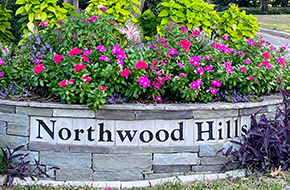
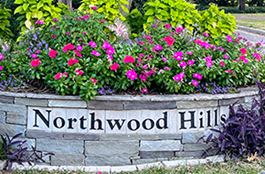
changed 4block locations to images

Changed region(s): [[0.8151, 0.3448, 0.8453, 0.3736], [0.7245, 0.1437, 0.7547, 0.1724], [0.4528, 0.6897, 0.483, 0.7184]]

diff --git a/pages/index.js b/pages/index.js
@@ -93,8 +93,8 @@ function HomePage(props) {
                       'Home Watch' is a visual inspection of a home or property,
                       looking for obvious issues. Home Watch is sometimes used
                       as one word - HomeWatch, however HomeWatch is most often
-                      used when referring to home services that provides In-Home Health Care
-                      for senior citizens.
+                      used when referring to home services that provides In-Home
+                      Health Care for senior citizens.
                     </p>
                     <p>
                       <strong>Dallas Home Watch LLC.</strong> offers
@@ -104,12 +104,11 @@ function HomePage(props) {
                       </Link>{" "}
                       in the Dallas, Texas area. We service several
                       neighborhoods in North Dallas, mid-cities and downtown
-                      Dallas. We provide visual
-                      inspections of both the interior and exterior of homes and
-                      properties, looking for obvious issues that may cause
-                      potential damage. We keep homeowners informed of any
-                      issues and follow the client's instructions regarding a
-                      resolution and cure for them.
+                      Dallas. We provide visual inspections of both the interior
+                      and exterior of homes and properties, looking for obvious
+                      issues that may cause potential damage. We keep homeowners
+                      informed of any issues and follow the client's
+                      instructions regarding a resolution and cure for them.
                     </p>
                     <br />
                     <h3>Not House Sitter or Property Manager</h3>
@@ -358,7 +357,6 @@ function HomePage(props) {
                   We operate our business in accordance with the mission
                   statement laid out by the National Home Watch Association.
                 </p>
-             
                 <Link
                   href="/accreditation"
                   rel="noreferrer nofollow"
@@ -371,7 +369,7 @@ function HomePage(props) {
                     alt="Accredited Member of the National Home Watch Association"
                   />
                 </Link>
-               <br />
+                <br />
                 <br />
                 <p className="mb-10">
                   As a National Home Watch Association member, we are constantly
@@ -383,9 +381,10 @@ function HomePage(props) {
                   protect your property and assets in the best ways possible.
                 </p>
                 <p>
-                  Dallas Home Watch LLC is a local, woman-owned business that provides Home Watch Services.
-                  Tina Lawson, owner of Dallas Home Watch, is a Certified Home
-                  Watch Professional. Certification #05220241
+                  Dallas Home Watch LLC is a local, woman-owned business that
+                  provides Home Watch Services. Tina Lawson, owner of Dallas
+                  Home Watch, is a Certified Home Watch Professional.
+                  Certification #05220241
                 </p>
               </div>
               {/* Column */}
@@ -463,43 +462,72 @@ function HomePage(props) {
         <div className="inner-column">
           <div className="row SAB">
             {/* Highland Park Gated Community Block */}
-            <div className="inner-block col-lg-3 col-md-6 col-sm-12 service-area-highland-park SAB">
+            <div className="inner-block col-lg-3 col-md-6 col-sm-12  SAB">
               <Link
                 href="service-areas#HighlandPark"
                 className="service-area-block"
               >
-                <span className="streetblock">Highland Park</span>
+                <Image
+                  src="/images/highland-park-street-sign.png"
+                  alt="Highland Park street sign"
+                  width={265}
+                  height={0}
+                />
+                <br />
+                <span className="streetblock2">Highland Park</span>
               </Link>
               <br />
             </div>
             <br />
             {/* University Park Community Block */}
-            <div className="inner-block col-lg-3 col-md-6 col-sm-12 service-area-university-park SAB">
+            <div className="inner-block col-lg-3 col-md-6 col-sm-12  SAB">
               <Link
                 href="service-areas#UniversityPark"
                 className="service-area-block"
               >
-                <span className="streetblock">University Park</span>
+                <Image
+                  src="/images/university-park-bridge.png"
+                  alt="University Park street sign"
+                  width={265}
+                  height={0}
+                />
+                <br />
+
+                <span className="streetblock2">University Park</span>
               </Link>
             </div>
 
             {/* Lake Forest Block */}
-            <div className="inner-block col-lg-3 col-md-6 col-sm-12 service-area-lake-forest SAB">
+            <div className="inner-block col-lg-3 col-md-6 col-sm-12 SAB">
               <Link
                 href="service-areas#LakeForest"
                 className="service-area-block"
               >
-                <span className="streetblock">Lake Forest</span>
+                <Image
+                  src="/images/estates-of-lake-forest2.jpg"
+                  alt="Estates of Lake Forest"
+                  width={265}
+                  height={0}
+                />
+                <br />
+                <span className="streetblock2">Lake Forest</span>
               </Link>
             </div>
 
             {/* Northwood Hills Gated Community Block*/}
-            <div className="inner-block col-lg-3 col-md-6 col-sm-12 service-area-northwood-hills SAB">
+            <div className="inner-block col-lg-3 col-md-6 col-sm-12 SAB">
               <Link
                 href="service-areas#NorthwoodHills"
                 className="service-area-block"
               >
-                <span className="streetblock centered">Northwood Hills</span>
+                <Image
+                  src="/images/northwood-hills-neighborhood.png"
+                  alt="Estates of Lake Forest"
+                  width={265}
+                  height={0}
+                />
+                <br />
+                <span className="streetblock2">Northwood Hills</span>
               </Link>
             </div>
           </div>

diff --git a/styles/susan.css b/styles/susan.css
@@ -10,6 +10,8 @@
 .SAB{margin-left:0%;margin-bottom:25px;}
 .SAB a:hover{color:white; }
 
+.streetblock2{position:absolute; width:265px; margin-left:0px; margin-top:1px;background-color:#00204c;}
+
 .fb-like{height:100px;}
 .text40{font-weight: bold; font-size: 1.5em; line-height: 1.5; margin:20px; border:solid 1px silver; padding:10px;}
 .mb-10{padding-bottom:10px}
@@ -252,7 +254,7 @@ h2.welcomeHome {
   background-image: url("/images/background/man-cleaning-outside-porch.jpg");
 }
 .pageback-homepage {
-  background-image: url("/images/background/dallas-skyline.jpg");
+  background-image: url("/images/background/dallas-skyline.jpg");  z-index:0;
 }
 .pageback-frontdoor {
   background-image: url("/images/background/open-front-door-960x496.jpg");
@@ -560,3 +562,5 @@ h4 {
 .mb-25 {
   margin-bottom: 50px;
 }
+
+
